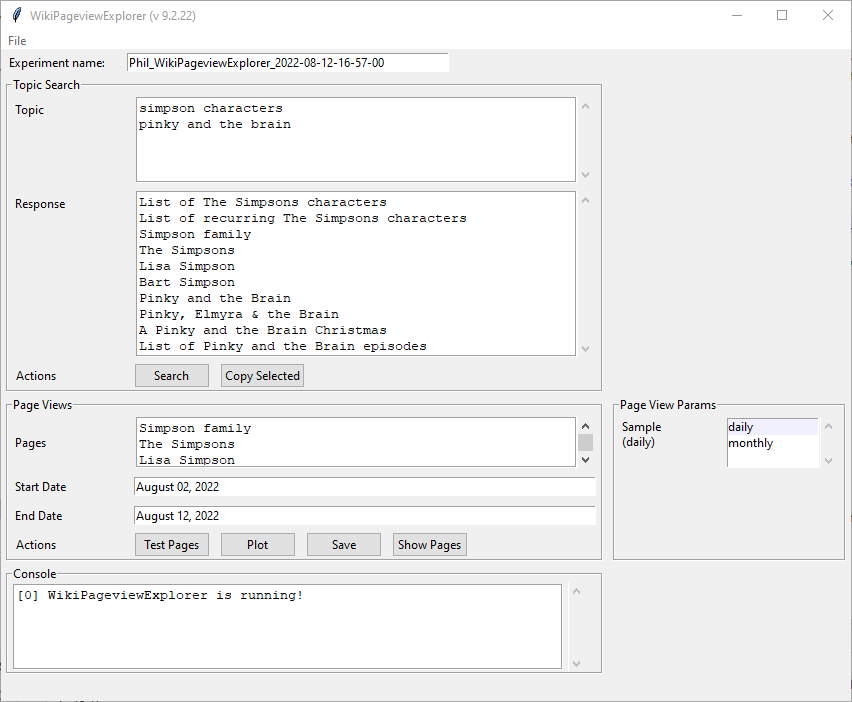
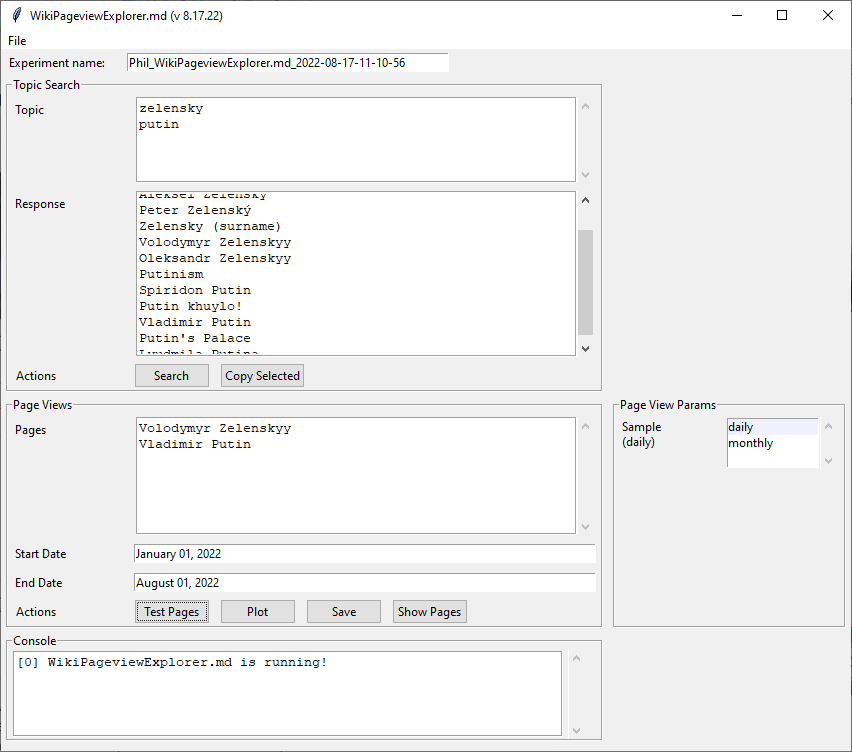
Documenting

diff --git a/keyword_explorer/Apps/WikiPageviewExplorer.py b/keyword_explorer/Apps/WikiPageviewExplorer.py
@@ -36,8 +36,8 @@ class WikiPageviewExplorer(AppBase):
 
     def setup_app(self):
         self.app_name = "WikiPageviewExplorer.md"
-        self.app_version = "9.2.22"
-        self.geom = (850, 650)
+        self.app_version = "8.17.22"
+        self.geom = (850, 700)
 
         self.multi_count_list = []
         self.totals_dict = {}
@@ -87,7 +87,7 @@ class WikiPageviewExplorer(AppBase):
 
     def build_page_views(self, lf:tk.LabelFrame, text_width:int, label_width:int):
         row = 0
-        self.wiki_pages_text_field = TextField(lf, row, 'Pages', text_width, height=1, label_width=label_width)
+        self.wiki_pages_text_field = TextField(lf, row, 'Pages', text_width, height=7, label_width=label_width)
         ToolTip(self.wiki_pages_text_field.tk_text, "The list of topics to get page views for")
         row = self.wiki_pages_text_field.get_next_row()
         self.start_date_field = DateEntryField(lf, row, 'Start Date', text_width, label_width=label_width)

diff --git a/keyword_explorer/tkUtils/DateEntryField.py b/keyword_explorer/tkUtils/DateEntryField.py
@@ -1,6 +1,7 @@
 import tkinter as tk
 from tkinter import ttk
 from datetime import datetime, timedelta
+from dateutil.parser import parse
 from typing import List, Any
 
 class DateEntryField:
@@ -8,6 +9,7 @@ class DateEntryField:
     value = None
     tk_label = None
     tk_entry = None
+    strict:bool = False
     row = 0
 
     def __init__(self, parent:'ttk.Frame', row:int, label:str, width:int = 20, label_width:int = 20):
@@ -41,6 +43,10 @@ class DateEntryField:
 
     def get_date(self) -> datetime:
         s = self.tk_entry.get()
+        d:datetime
+        if self.strict == False:
+            d = parse(s)
+            return d
         d = datetime.strptime(s, "%B %d, %Y")
         return d
 

diff --git a/markup/TweetsCountExplorer.md b/markup/TweetsCountExplorer.md
@@ -1,5 +1,5 @@
 #TweetCountExplorer
-_TweetCountExplorer_ is a standalone app that has just the Twitter trends section from [_KeywordExplorer_](../markup/KeywordExplorer.md). Below is an example of the running app:
+_TweetCountExplorer_ is a standalone app that is just the Twitter trends functionality from [_KeywordExplorer_](../markup/KeywordExplorer.md). Below is an example of the running app:
 
 ![KeywordExporer](../images/TweetCountsExplorer.png)
 
@@ -15,13 +15,20 @@ https://developer.twitter.com/en/docs/twitter-api/tweets/counts/introduction
 
 if you run into trouble.
 
+The screen is divided into 4 panels:
+- Experiment name - see description in [KeywordExplorer](../markup/KeywordExplorer.md)
+- [Twitter](#twitter-panel)
+- [Twitter Params](#twitter-params-panel)
+- Console - see description in [KeywordExplorer](../markup/KeywordExplorer.md)
+
 ### Twitter <span id="twitter-region"/>
-![Twitter region](../images/twitter_panel.png)
-This panel lets you explore counts of keywords and hashtags for the period of time that you're interested in. You set your start and end dates in the date fields (Be careful with the format, the parser is brittle). You can adjust the sampling rate in the [Twitter Params] panel.
+>![Twitter region](../images/twitter_panel.png)
+
+This panel lets you explore counts of keywords and hashtags for the period of time that you're interested in. You set your start and end dates in the date fields. You can adjust the sampling rate in the [Twitter Params] panel.
 
 The algorithm for getting keyword counts has two elements - the keyword, and the span of days. Twitter breaks the response into several pieces. Each piece counts as a resuest of the Twitter V2 API, and it only allows so many requests, so don't try to pull in a full year of daily Tweets for a large set of keywords.
 
-Keywords can be edited in the **Test Keyword(s)** window. Using 'OR' allows you to combine keywords. For example, "Hampsters OR Rabbits"
+Keywords can be edited in the **Test Keyword(s)** window. Using 'OR' allows you to combine keywords. For example, "Hampsters OR Rabbits". They can also be loaded using the **File->Load Experiment** menu. If you make changes to the keywords and you want to save the results, use the **File->Save Experiment** menu. Examples are in the data directory.
 
 Pressing the **Test Keyword** button will send a series of qaueries to Twitter that gets the number of tweets per day over a given time range. It will also open a window with a plot showing the values for each keyword over time. If you close the plot, you can reopen it by clicking **Plot**. Clicking **Save** will open a dialog that lets you save the data in the chart as an excel file.
 
@@ -30,6 +37,6 @@ Running the same query over a range of dates will accumulate the results in the 
 Lastly, clicking **Launch Twitter** will open a set of tabs in your default browser - one for each keyword within the range of dates specified. This allows you to quickly explore keywords in context. For example, you could see if the "Birds" keywords referred to [the group of warm-blooded vertebrates constituting the class Aves](https://en.wikipedia.org/wiki/Bird), , or the [Baltimore Orioles](https://en.wikipedia.org/wiki/Baltimore_Orioles) if you were looking at dates that included games during their 2014 season.
 
 ### Twitter Params <span id="twitter-params-region"/>
-![Twitter params region](../images/twitter_params_panel.png)
+>![Twitter params region](../images/twitter_params_panel.png)
 
 If your request spans too much time, you can subsample across weeks or months. Unlike the "day" option, these are not complete counts. Instead they subsample a week or month (Hey [@TwitterDev](https://twitter.com/TwitterDev)! Could you add these as options?). As such they are not accurate counts, but are still good for determining realative trends between keywords.

diff --git a/markup/KeywordExplorer.md b/markup/KeywordExplorer.md
@@ -16,7 +16,7 @@ https://developer.twitter.com/en/docs/twitter-api/tweets/counts/introduction
 
 if you run into trouble.
 
-The screen is divided into 5 panels:
+The screen is divided into 6 panels:
 - [Experiment name](#experiment-name-panel)
 - [GPT](#gpt-panel)
 - [GPT Params](#gpt-params-panel)
@@ -58,11 +58,11 @@ The second part of this section lets you choose the GPT-3 [model](https://beta.o
 ### Twitter <span id="twitter-panel"/>
 >![Twitter panel](../images/twitter_panel.png)
 
-This panel lets you explore counts of keywords and hashtags for the period of time that you're interested in. You set your start and end dates in the date fields (Be careful with the format, the parser is brittle). You can adjust the sampling rate in the [Twitter Params](#twitter-params-panel) panel. 
+This panel lets you explore counts of keywords and hashtags for the period of time that you're interested in. You set your start and end dates in the date fields. You can adjust the sampling rate in the [Twitter Params](#twitter-params-panel) panel. 
 
 The algorithm for getting keyword counts has two elements - the keyword, and the span of days. Twitter breaks the response into several pieces. Each piece counts as a resuest of the Twitter V2 API, and it only allows so many requests, so don't try to pull in a full year of daily Tweets for a large set of keywords. 
 
-Keywords can be edited in the **Test Keyword(s)** window. Using 'OR' allows you to combine keywords. For example, "Hampsters OR Rabbits"
+Keywords can be edited in the **Test Keyword(s)** window. Using 'OR' allows you to combine keywords. For example, "Hampsters OR Rabbits". They can also be loaded using the **File->Load Experiment** menu. If you make changes to the keywords and you want to save the results, use the **File->Save Experiment** menu. Examples are in the data directory.
 
 Pressing the **Test Keyword** button will send a series of qaueries to Twitter that gets the number of tweets per day over a given time range. It will also open a window with a plot showing the values for each keyword over time. If you close the plot, you can reopen it by clicking **Plot**. Clicking **Save** will open a dialog that lets you save the data in the chart as an excel file.
 

diff --git a/markup/WikiPageviewExplorer.md b/markup/WikiPageviewExplorer.md
@@ -1,4 +1,29 @@
 #WikiPageviewExplorer
 
-![WikiPageviewExplorer](../images/WikiPageviewExplorer.png)
-![simpsons](../images/simpson_pageviews_plot.png)
+_WikiPageviewExplorer_ is a Python desktop app that lets you interactively search for (English) entries using keywords. Pages that contain or relate to the keywords are presented in a list that can then be quueried for the number of daily pageviews within a date range.
+
+>![WikiPageviewExplorer](../images/WikiPageviewExplorer.png)
+
+And this is an example of the page views:
+
+>![simpsons](../images/wiki_putin_zelensky_plot.png)
+
+## How to use
+
+Using the tool is pretty straightforward. That being said, it's possible to break it. If you are running it from the command line, then you will get additional information in the console that might help you figure out things. Most often, it is a poorly-formed keyword that gets sent off to the Wikipedia.
+
+The screen is divided into 5 panels:
+- Experiment name - see description in [KeywordExplorer](../markup/KeywordExplorer.md)
+- [Topic Search](#topic-search-panel)
+- [Page Views](#page-views-panel)
+- [Page View Params](#page-view-params-panel)
+- Console - see description in [KeywordExplorer](../markup/KeywordExplorer.md)
+
+##Topic Search <span id="topic-search-panel"/>
+>![WikiTopicSearch](../images/wiki_topic_panel.png)
+
+##Page Views <span id="page-views-panel"/>
+>![WikiPageViews](../images/wiki_page_views_panel.png)
+
+## Page View Params <span id="page-view-params-panel"/>
+>![WikiPageViewParams](../images/wiki_page_view_params_panel.png)
